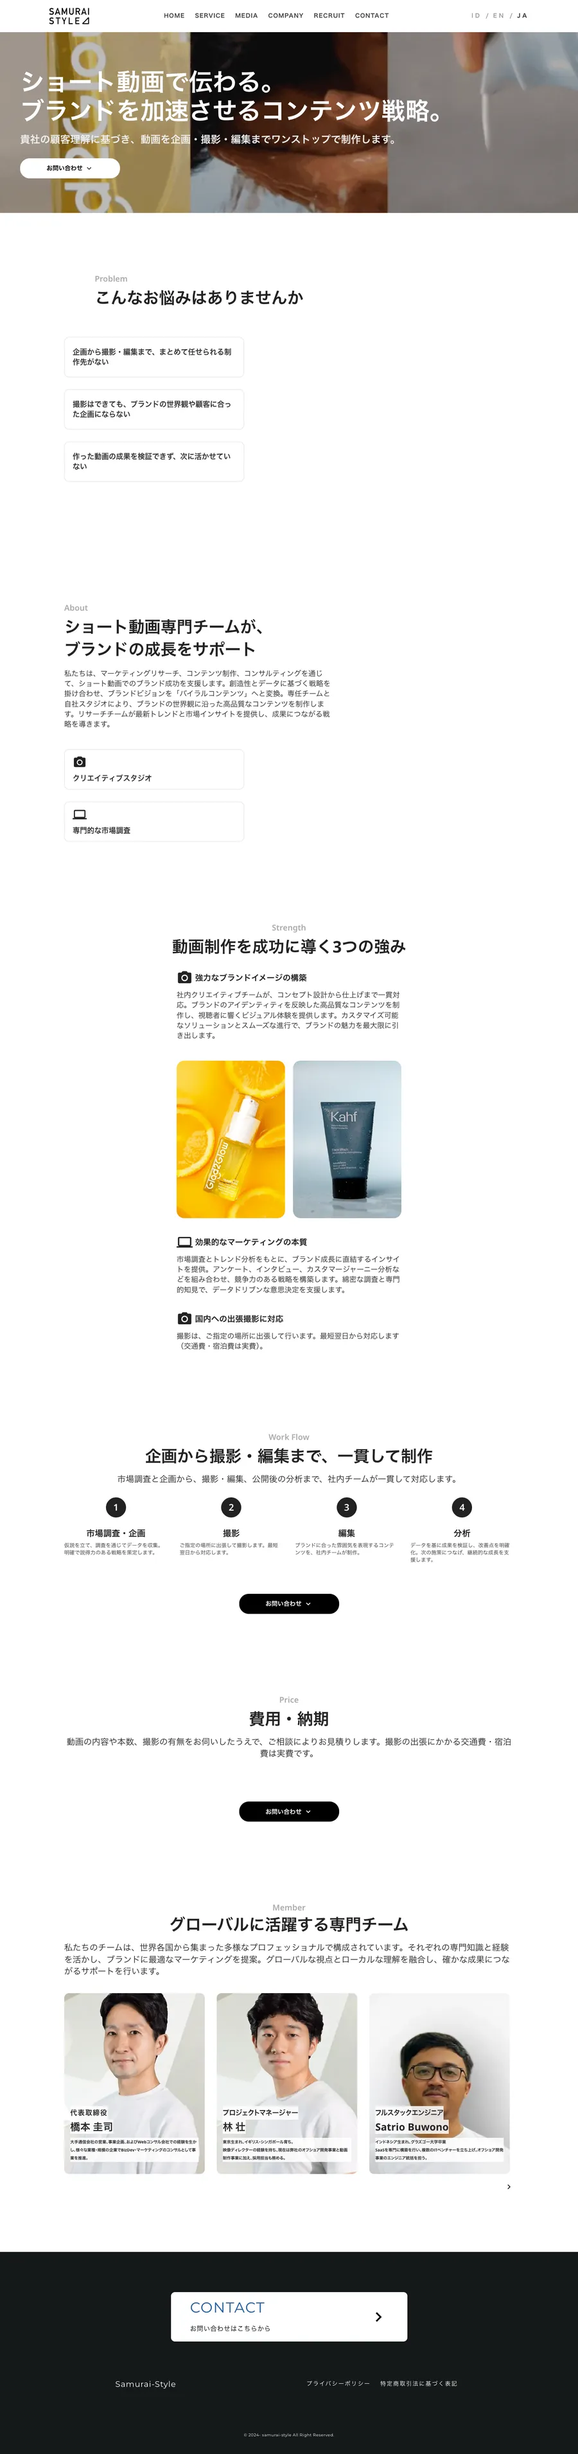
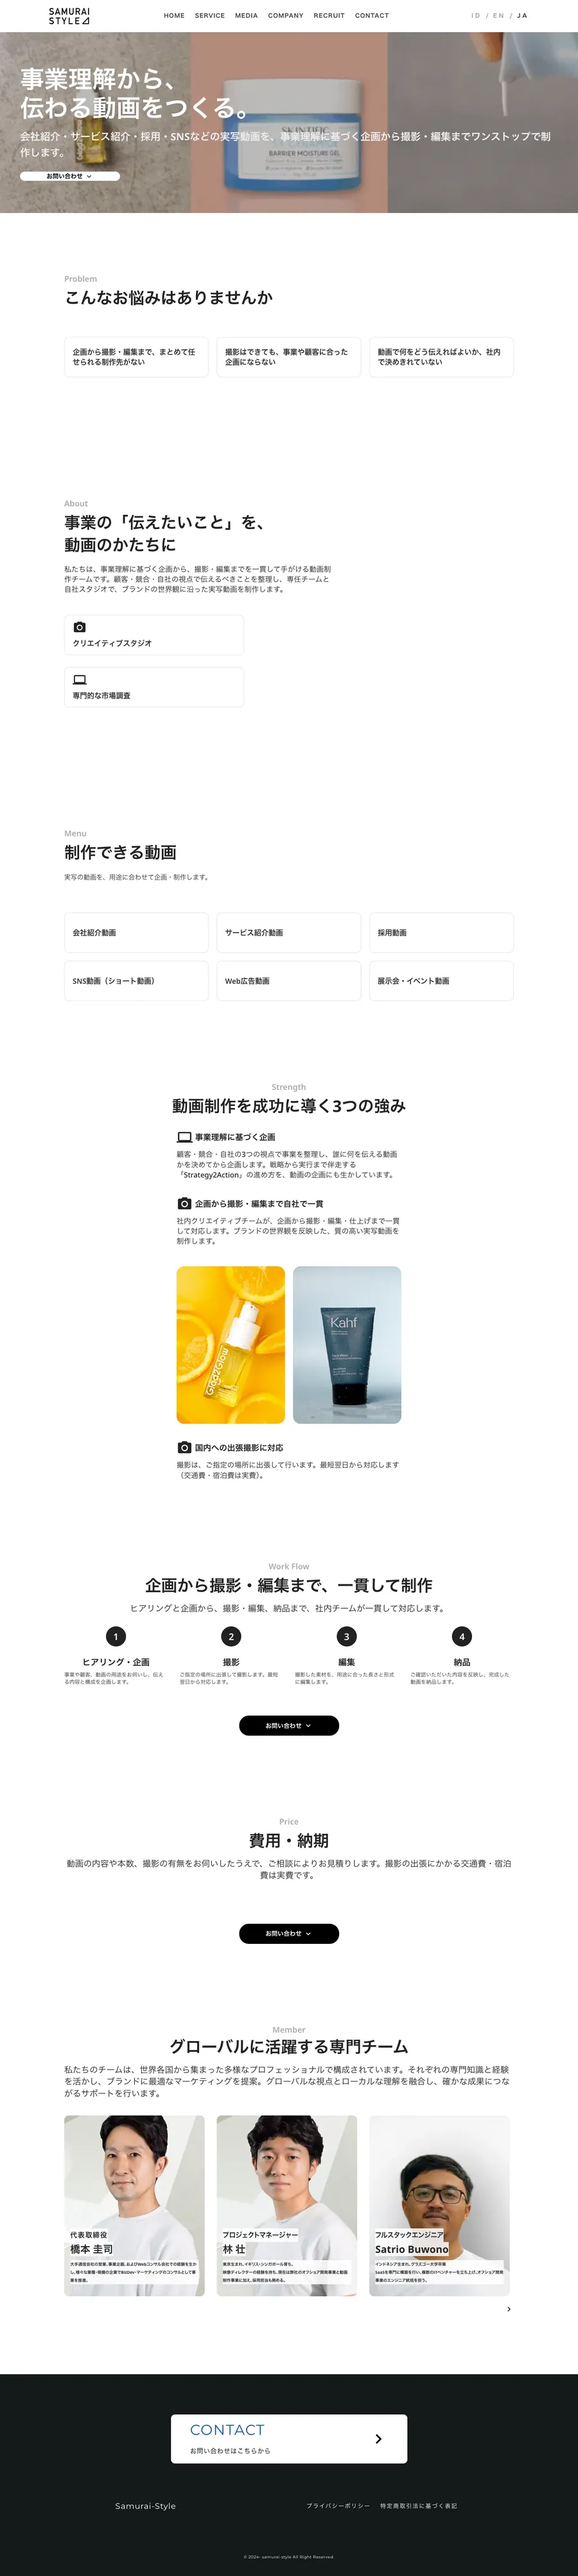
handover: video page for live-action, any use

diff --git a/docs/samurai-site-handover/index.html b/docs/samurai-site-handover/index.html
@@ -97,7 +97,7 @@ td code{font-family:var(--mono);font-size:13px;background:var(--code);padding:1p
 <header class="lede">
   <p class="eyebrow">Handover · samurai-style.tokyo · Japanese site</p>
   <h1>Samurai Style site update: service list, video production and company pages</h1>
-  <p>Three pages change. The service list goes down to four services. The video production page is rebuilt as a service page for clients in Japan (planning, shooting and editing), with the same structure as our other service pages, and restyled from a dark theme to the light look of the other pages. On the company page, the VALUES section changes its layout.</p>
+  <p>Three pages change. The service list goes down to four services. The video production page is rebuilt as a service page for clients in Japan: live-action video for any use (not only short videos), planned from an understanding of the client's business, then shot and edited, with the same structure as our other service pages, and restyled from a dark theme to the light look of the other pages. On the company page, the VALUES section changes its layout.</p>
   <p>Each page below has a before / after screenshot and a numbered list of changes. Japanese text that appears on the site is shown in grey boxes. Please copy it with the <b>Copy</b> button instead of retyping it, so no character changes.</p>
   <nav class="toc" aria-label="Pages in this handover">
     <a href="#service">1. Service list <code>/service</code></a>
@@ -197,36 +197,66 @@ td code{font-family:var(--mono);font-size:13px;background:var(--code);padding:1p
   </div>
 
   <h3>Content changes</h3>
-  <p class="note">Final order of the page: Hero, Problem (new), About, Strength, Work Flow, Price (new), Member, Contact.</p>
+  <p class="note">The page is no longer about short videos only. It sells live-action video production for any use, planned from an understanding of the client's business. Final order of the page: Hero, Problem (new), About, Menu (new), Strength, Work Flow, Price (new), Member, Contact.</p>
   <ol class="changes">
     <li><div class="body">
-      <p><span class="tag rep">Replace</span>Hero: the sub copy under the headline. The headline and the background video stay.</p>
-      <div class="field"><span>Now</span><div class="cp"><div class="txt old">視聴者の心を動かすオリジナルコンテンツを制作</div></div></div>
-      <div class="field"><span>New</span><div class="cp"><div class="txt">貴社の顧客理解に基づき、動画を企画・撮影・編集までワンストップで制作します。</div><button class="copy" type="button">Copy</button></div></div>
+      <p><span class="tag rep">Replace</span>Page title (<code>&lt;title&gt;</code> and og:title)</p>
+      <div class="field"><span>Now</span><div class="cp"><div class="txt old">TikTok・ショート動画制作 | サムライスタイル株式会社</div></div></div>
+      <div class="field"><span>New</span><div class="cp"><div class="txt">動画制作（企画・撮影・編集） | サムライスタイル株式会社</div><button class="copy" type="button">Copy</button></div></div>
+    </div></li>
+
+    <li><div class="body">
+      <p><span class="tag rep">Replace</span>Hero: headline and sub copy. The background video stays.</p>
+      <div class="field"><span>Headline now</span><div class="cp"><div class="txt old">ショート動画で伝わる。ブランドを加速させるコンテンツ戦略。</div></div></div>
+      <div class="field"><span>Headline new (HTML)</span><div class="cp"><div class="txt mono">事業理解から、&lt;br&gt;伝わる動画をつくる。</div><button class="copy" type="button">Copy</button></div></div>
+      <p class="note">Two lines on all screen sizes. Remove the old <code>&lt;br class="hidden max-md:inline"&gt;</code>.</p>
+      <div class="field"><span>Sub copy now</span><div class="cp"><div class="txt old">視聴者の心を動かすオリジナルコンテンツを制作</div></div></div>
+      <div class="field"><span>Sub copy new</span><div class="cp"><div class="txt">会社紹介・サービス紹介・採用・SNSなどの実写動画を、事業理解に基づく企画から撮影・編集までワンストップで制作します。</div><button class="copy" type="button">Copy</button></div></div>
     </div></li>
 
     <li><div class="body">
       <p><span class="tag rep">Add</span>Hero: add the 「お問い合わせ」 button under the sub copy. Use the same button component and link as the one in Work Flow, and keep it white here because it sits on the video.</p>
-      
     </div></li>
 
     <li><div class="body">
-      <p><span class="tag style">New section</span>Problem: add a new section between the hero and About. Build it with the About section component (small label, heading, white chips without icons).</p>
+      <p><span class="tag style">New section</span>Problem: add a new section between the hero and About. Build it with the About section component (small label, heading, white chips without icons), with the layout changes in item 7.</p>
       <div class="field"><span>Label</span><div class="cp"><div class="txt">Problem</div><button class="copy" type="button">Copy</button></div></div>
       <div class="field"><span>Heading</span><div class="cp"><div class="txt">こんなお悩みはありませんか</div><button class="copy" type="button">Copy</button></div></div>
       <div class="field"><span>Chip 1</span><div class="cp"><div class="txt">企画から撮影・編集まで、まとめて任せられる制作先がない</div><button class="copy" type="button">Copy</button></div></div>
-      <div class="field"><span>Chip 2</span><div class="cp"><div class="txt">撮影はできても、ブランドの世界観や顧客に合った企画にならない</div><button class="copy" type="button">Copy</button></div></div>
-      <div class="field"><span>Chip 3</span><div class="cp"><div class="txt">作った動画の成果を検証できず、次に活かせていない</div><button class="copy" type="button">Copy</button></div></div>
+      <div class="field"><span>Chip 2</span><div class="cp"><div class="txt">撮影はできても、事業や顧客に合った企画にならない</div><button class="copy" type="button">Copy</button></div></div>
+      <div class="field"><span>Chip 3</span><div class="cp"><div class="txt">動画で何をどう伝えればよいか、社内で決めきれていない</div><button class="copy" type="button">Copy</button></div></div>
     </div></li>
 
     <li><div class="body">
-      <p><span class="tag rm">Delete text</span>About: delete this sentence from the paragraph that starts with 「私たちは、マーケティングリサーチ…」</p>
-      <div class="cp"><div class="txt old">さらに、マイクロインフルエンサーのネットワークを活用し、リーチ拡大とエンゲージメント向上を両立。</div><button class="copy" type="button">Copy</button></div>
+      <p><span class="tag rep">Replace</span>About: heading and paragraph (whole text)</p>
+      <div class="field"><span>Heading now</span><div class="cp"><div class="txt old">ショート動画専門チームが、ブランドの成長をサポート</div></div></div>
+      <div class="field"><span>Heading new (HTML)</span><div class="cp"><div class="txt mono">事業の「伝えたいこと」を、&lt;br&gt;動画のかたちに</div><button class="copy" type="button">Copy</button></div></div>
+      <div class="field"><span>Text now</span><div class="cp"><div class="txt old">私たちは、マーケティングリサーチ、コンテンツ制作、コンサルティングを通じて、ショート動画でのブランド成功を支援します。（whole paragraph）</div></div></div>
+      <div class="field"><span>Text new</span><div class="cp"><div class="txt">私たちは、事業理解に基づく企画から、撮影・編集までを一貫して手がける動画制作チームです。顧客・競合・自社の視点で伝えるべきことを整理し、専任チームと自社スタジオで、ブランドの世界観に沿った実写動画を制作します。</div><button class="copy" type="button">Copy</button></div></div>
     </div></li>
 
     <li><div class="body">
       <p><span class="tag rm">Remove</span>About: remove the white chip 「マイクロインフルエンサー」. Two chips remain: 「クリエイティブスタジオ」 and 「専門的な市場調査」.</p>
-      
+    </div></li>
+
+    <li><div class="body">
+      <p><span class="tag style">New section</span>Menu: add a new section between About and Strength. Same component as Problem, plus a one-line paragraph under the heading (same style as the About paragraph) and six chips.</p>
+      <div class="field"><span>Label</span><div class="cp"><div class="txt">Menu</div><button class="copy" type="button">Copy</button></div></div>
+      <div class="field"><span>Heading</span><div class="cp"><div class="txt">制作できる動画</div><button class="copy" type="button">Copy</button></div></div>
+      <div class="field"><span>Text</span><div class="cp"><div class="txt">実写の動画を、用途に合わせて企画・制作します。</div><button class="copy" type="button">Copy</button></div></div>
+      <div class="field"><span>Chip 1</span><div class="cp"><div class="txt">会社紹介動画</div><button class="copy" type="button">Copy</button></div></div>
+      <div class="field"><span>Chip 2</span><div class="cp"><div class="txt">サービス紹介動画</div><button class="copy" type="button">Copy</button></div></div>
+      <div class="field"><span>Chip 3</span><div class="cp"><div class="txt">採用動画</div><button class="copy" type="button">Copy</button></div></div>
+      <div class="field"><span>Chip 4 (HTML)</span><div class="cp"><div class="txt mono">SNS動画&lt;wbr&gt;（ショート動画）</div><button class="copy" type="button">Copy</button></div></div>
+      <div class="field"><span>Chip 5</span><div class="cp"><div class="txt">Web広告動画</div><button class="copy" type="button">Copy</button></div></div>
+      <div class="field"><span>Chip 6 (HTML)</span><div class="cp"><div class="txt mono">展示会・&lt;wbr&gt;イベント動画</div><button class="copy" type="button">Copy</button></div></div>
+      <p class="note">On the chip text add <code>break-keep max-sm:text-center</code>, so 「SNS動画」 and 「展示会・」 break only at the <code>&lt;wbr&gt;</code>.</p>
+      <p class="note"><b>Layout for Problem and Menu only</b> (About keeps its current layout):</p>
+      <div class="field"><span>Heading column</span><div class="cp"><div class="txt mono">w-full flex-col items-start justify-center max-md:w-full</div><button class="copy" type="button">Copy</button></div></div>
+      <p class="note">Replaces <code>w-[60%]</code> and <code>items-center</code>, so the heading sits on the left like About.</p>
+      <div class="field"><span>Chip wrapper, Problem</span><div class="cp"><div class="txt mono">grid w-full grid-cols-3 gap-[20px] max-md:grid-cols-2 max-sm:grid-cols-1 max-sm:gap-[12px]</div><button class="copy" type="button">Copy</button></div></div>
+      <div class="field"><span>Chip wrapper, Menu</span><div class="cp"><div class="txt mono">grid w-full grid-cols-3 gap-[20px] max-md:grid-cols-2 max-sm:grid-cols-2 max-sm:gap-[12px]</div><button class="copy" type="button">Copy</button></div></div>
+      <p class="note">Replaces <code>flex w-[40%] flex-col items-center justify-center gap-[30px] max-md:w-full max-md:gap-[15px]</code>. Desktop: 3 chips per row. Mobile: Problem 1 per row, Menu 2 per row.</p>
     </div></li>
 
     <li><div class="body">
@@ -237,16 +267,23 @@ td code{font-family:var(--mono);font-size:13px;background:var(--code);padding:1p
 
     <li><div class="body">
       <p><span class="tag rm">Remove</span>Strength: remove the whole block 「低投資で高品質なインプレッションを獲得」 (heading, text and the Indonesian-language research screenshot under it).</p>
-      
     </div></li>
 
     <li><div class="body">
-      <p><span class="tag rm">Remove</span>Strength: remove the image under 「効果的なマーケティングの本質」 (the micro-influencer database screenshot).</p>
-      <p class="note"><b>Keep the two product photos</b> under 「強力なブランドイメージの構築」. Do not remove or replace them.</p>
+      <p><span class="tag rep">Replace</span>Strength block 「効果的なマーケティングの本質」: new heading and text, remove its image (the micro-influencer database screenshot), and <b>move it to the first position</b>. Keep its laptop icon.</p>
+      <div class="field"><span>Heading</span><div class="cp"><div class="txt">事業理解に基づく企画</div><button class="copy" type="button">Copy</button></div></div>
+      <div class="field"><span>Text</span><div class="cp"><div class="txt">顧客・競合・自社の3つの視点で事業を整理し、誰に何を伝える動画かを決めてから企画します。戦略から実行まで伴走する「Strategy2Action」の進め方を、動画の企画にも生かしています。</div><button class="copy" type="button">Copy</button></div></div>
     </div></li>
 
     <li><div class="body">
-      <p><span class="tag rep">Add</span>Strength: add a 3rd block after 「効果的なマーケティングの本質」. Same component and spacing as the other blocks, the camera icon of block 1, no image.</p>
+      <p><span class="tag rep">Replace</span>Strength block 「強力なブランドイメージの構築」: new heading and text. It becomes the second block.</p>
+      <div class="field"><span>Heading</span><div class="cp"><div class="txt">企画から撮影・編集まで自社で一貫</div><button class="copy" type="button">Copy</button></div></div>
+      <div class="field"><span>Text</span><div class="cp"><div class="txt">社内クリエイティブチームが、企画から撮影・編集・仕上げまで一貫して対応します。ブランドの世界観を反映した、質の高い実写動画を制作します。</div><button class="copy" type="button">Copy</button></div></div>
+      <p class="note"><b>Keep the two product photos</b> in this block. Do not remove or replace them.</p>
+    </div></li>
+
+    <li><div class="body">
+      <p><span class="tag rep">Add</span>Strength: add a third block at the end. Same component and spacing as the other blocks, the camera icon, no image.</p>
       <div class="field"><span>Heading</span><div class="cp"><div class="txt">国内への出張撮影に対応</div><button class="copy" type="button">Copy</button></div></div>
       <div class="field"><span>Text</span><div class="cp"><div class="txt">撮影は、ご指定の場所に出張して行います。最短翌日から対応します（交通費・宿泊費は実費）。</div><button class="copy" type="button">Copy</button></div></div>
     </div></li>
@@ -255,19 +292,19 @@ td code{font-family:var(--mono);font-size:13px;background:var(--code);padding:1p
       <p><span class="tag rep">Replace</span>Work Flow: heading and paragraph (the free trial is no longer offered)</p>
       <div class="field"><span>Heading now</span><div class="cp"><div class="txt old">無料トライアルで、ブランド成長を体験</div></div></div>
       <div class="field"><span>Heading new</span><div class="cp"><div class="txt">企画から撮影・編集まで、一貫して制作</div><button class="copy" type="button">Copy</button></div></div>
-      <div class="field"><span>Text now</span><div class="cp"><div class="txt old">私たちは「クライアントと共に成長する」ことを大切にするスタートアップです。ショート動画でのブランディングに課題を感じている方は、ぜひ無料トライアルをご活用ください。調査から戦略立案、コンテンツ制作、インフルエンサー連携まで、一連のプロセスを体験いただけます。実際の成果を見ながら、ブランドの価値を高めていきましょう。</div></div></div>
-      <div class="field"><span>Text new</span><div class="cp"><div class="txt">市場調査と企画から、撮影・編集、公開後の分析まで、社内チームが一貫して対応します。</div><button class="copy" type="button">Copy</button></div></div>
+      <div class="field"><span>Text new</span><div class="cp"><div class="txt">ヒアリングと企画から、撮影・編集、納品まで、社内チームが一貫して対応します。</div><button class="copy" type="button">Copy</button></div></div>
     </div></li>
 
     <li><div class="body">
-      <p><span class="tag rep">Replace</span>Work Flow: the steps become 1 市場調査・企画, 2 撮影, 3 編集, 4 分析. Remove the step 「マイクロインフルエンサー」.</p>
-      <div class="field"><span>Step 1 title</span><div class="cp"><div class="txt">市場調査・企画</div><button class="copy" type="button">Copy</button></div></div>
-      <p class="note">Step 1 text stays: 仮説を立て、調査を通じてデータを収集。明確で説得力のある戦略を策定します。</p>
-      <div class="field"><span>Step 2 title</span><div class="cp"><div class="txt">撮影</div><button class="copy" type="button">Copy</button></div></div>
-      <div class="field"><span>Step 2 text</span><div class="cp"><div class="txt">ご指定の場所に出張して撮影します。最短翌日から対応します。</div><button class="copy" type="button">Copy</button></div></div>
-      <div class="field"><span>Step 3 title</span><div class="cp"><div class="txt">編集</div><button class="copy" type="button">Copy</button></div></div>
-      <p class="note">Step 3 text: use the current text of 「コンテンツ制作」 unchanged: ブランドに合った雰囲気を表現するコンテンツを、社内チームが制作。</p>
-      <p class="note">Step 4 「分析」 keeps its number and text.</p>
+      <p><span class="tag rep">Replace</span>Work Flow: four steps. Remove the step 「マイクロインフルエンサー」.</p>
+      <div class="field"><span>1 title</span><div class="cp"><div class="txt">ヒアリング・企画</div><button class="copy" type="button">Copy</button></div></div>
+      <div class="field"><span>1 text</span><div class="cp"><div class="txt">事業や顧客、動画の用途をお伺いし、伝える内容と構成を企画します。</div><button class="copy" type="button">Copy</button></div></div>
+      <div class="field"><span>2 title</span><div class="cp"><div class="txt">撮影</div><button class="copy" type="button">Copy</button></div></div>
+      <div class="field"><span>2 text</span><div class="cp"><div class="txt">ご指定の場所に出張して撮影します。最短翌日から対応します。</div><button class="copy" type="button">Copy</button></div></div>
+      <div class="field"><span>3 title</span><div class="cp"><div class="txt">編集</div><button class="copy" type="button">Copy</button></div></div>
+      <div class="field"><span>3 text</span><div class="cp"><div class="txt">撮影した素材を、用途に合った長さと形式に編集します。</div><button class="copy" type="button">Copy</button></div></div>
+      <div class="field"><span>4 title</span><div class="cp"><div class="txt">納品</div><button class="copy" type="button">Copy</button></div></div>
+      <div class="field"><span>4 text</span><div class="cp"><div class="txt">ご確認いただいた内容を反映し、完成した動画を納品します。</div><button class="copy" type="button">Copy</button></div></div>
     </div></li>
 
     <li><div class="body">
@@ -279,7 +316,6 @@ td code{font-family:var(--mono);font-size:13px;background:var(--code);padding:1p
 
     <li><div class="body">
       <p><span class="tag keep">No change</span>Member (three members) stays as it is.</p>
-      
     </div></li>
   </ol>
 
@@ -291,9 +327,9 @@ td code{font-family:var(--mono);font-size:13px;background:var(--code);padding:1p
       <tbody>
         <tr><td>Section background</td><td><code>bg-coal-dark</code></td><td><code>bg-white</code></td></tr>
         <tr><td>Headings, body text and icons that are white</td><td><code>text-white</code></td><td><code>text-[#222222]</code></td></tr>
-        <tr><td>Small labels 「Problem」「About」「Strength」「Work Flow」「Price」「Member」</td><td><code>text-[#c9d9f9]</code></td><td><code>text-[#aaaaaa]</code></td></tr>
+        <tr><td>Small labels 「Problem」「About」「Menu」「Strength」「Work Flow」「Price」「Member」</td><td><code>text-[#c9d9f9]</code></td><td><code>text-[#aaaaaa]</code></td></tr>
         <tr><td>Step descriptions in Work Flow</td><td><code>text-[#c8c8c8]</code></td><td><code>text-[#333]</code></td></tr>
-        <tr><td>Problem and About: the white chips</td><td><code>rounded-[12px] bg-white</code></td><td>add <code>border border-[#dddddd]</code></td></tr>
+        <tr><td>Problem, About and Menu: the white chips</td><td><code>rounded-[12px] bg-white</code></td><td>add <code>border border-[#dddddd]</code></td></tr>
         <tr><td>Work Flow: number circles</td><td><code>bg-white</code>, number in dark text</td><td><code>bg-[#222222]</code>, number <code>text-white</code></td></tr>
         <tr><td>「お問い合わせ」 buttons in Work Flow and Price</td><td><code>bg-white</code>, text and arrow <code>#333</code></td><td><code>bg-black</code>, text and arrow <code>text-white</code> (same as the black buttons on /service). The button in the hero stays white.</td></tr>
       </tbody>
